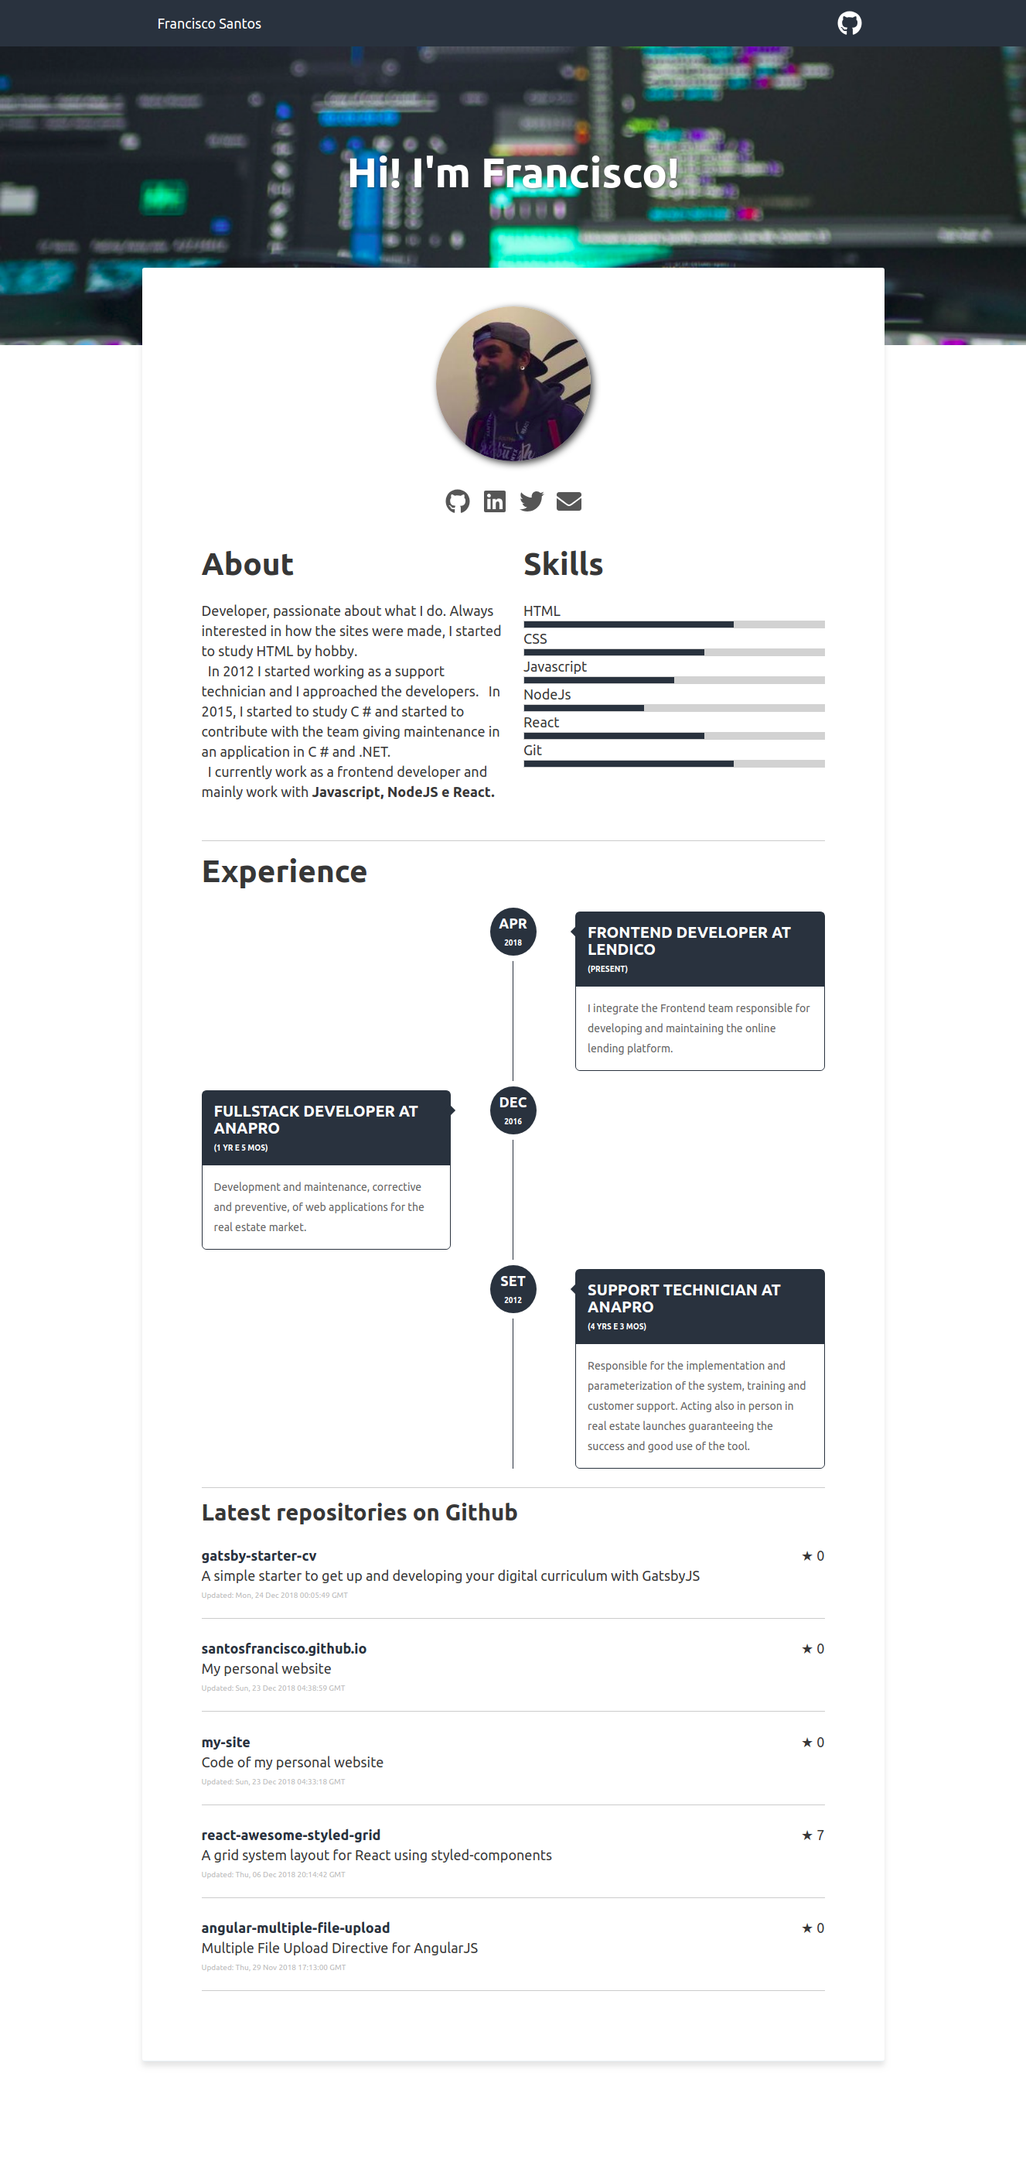
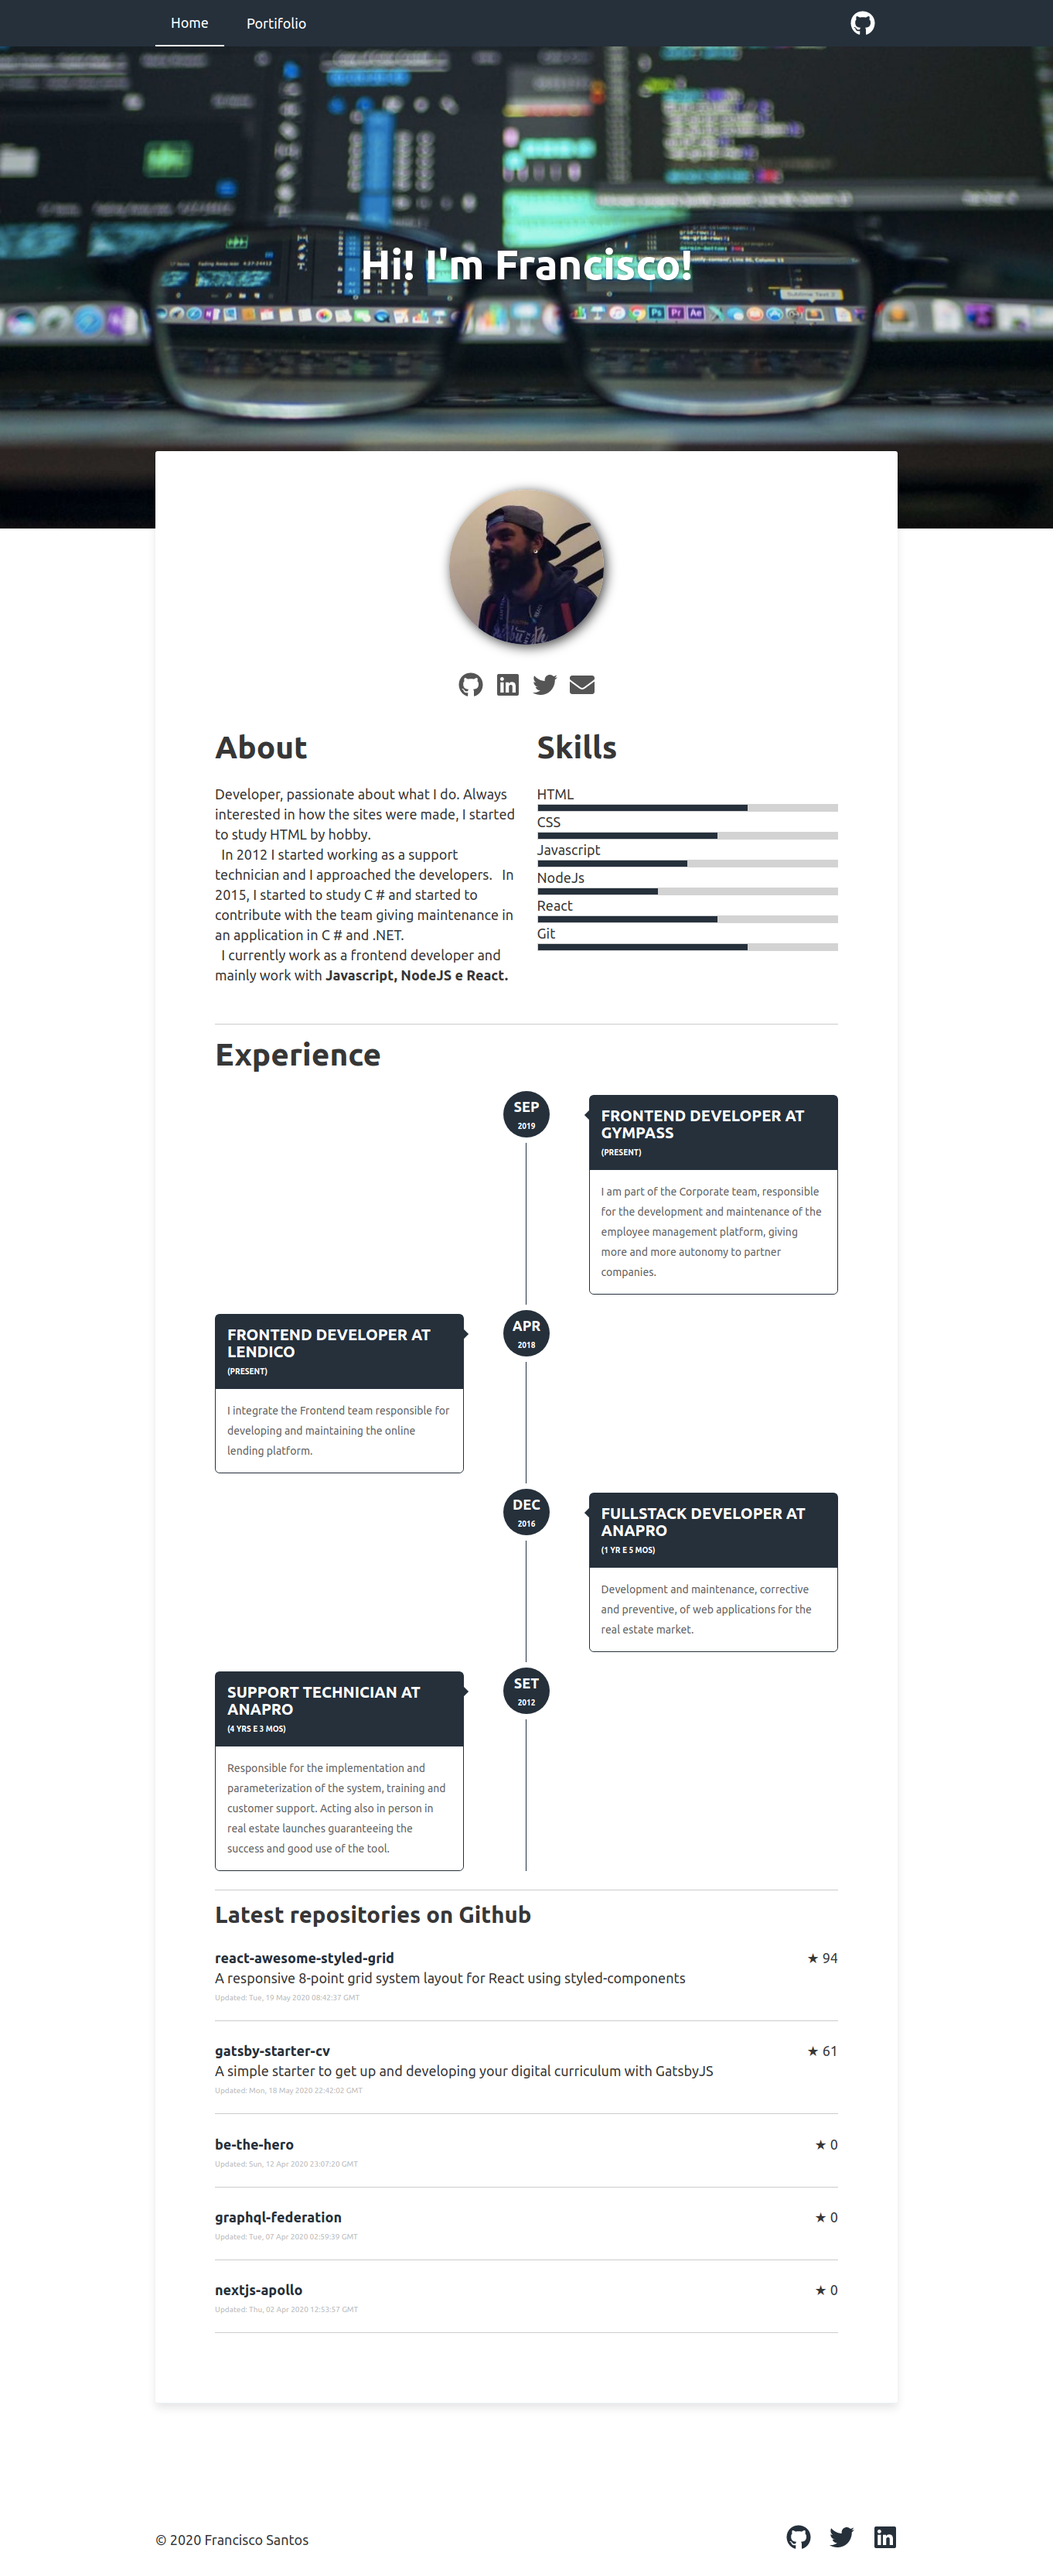
Footer and portifolio (#27)
* upgrade react-awesome-styled-grid

* make footer

* fix header

* create portifolio page

* update readme

diff --git a/src/pages/portifolio.js b/src/pages/portifolio.js
@@ -1,0 +1,78 @@
+import React from 'react'
+import styled, { css } from 'styled-components'
+import { Container, Row, Col, config } from 'react-awesome-styled-grid'
+import siteConfig from '../../data/siteConfig'
+
+import Layout from '../components/layout'
+import Hero from '../components/hero'
+import SEO from '../components/SEO'
+import Wrapper from '../components/wrapper'
+
+const Image = styled.img`
+  max-height: 220px;
+  max-width: 220px;
+  object-fit: cover;
+  object-position: center center;
+  border-radius: 10px;
+  box-shadow: 24px 47px 79px -21px rgba(0,0,0,0.51);
+`
+
+const JobCard = styled.a`
+  text-decoration: none;
+  color: inherit;
+
+  ${({ href }) => href && css`
+    &:hover ${Image}{
+      transition: transform .5s;
+      transform: translateY(-5px);
+    }
+  `}
+`
+
+const Portifolio = ({ className, location }) => {
+  const title = "Portifolio"
+  const { keywords, portifolio } = siteConfig
+  return (
+    <Layout location={location}>
+      <SEO
+        title={title}
+        keywords={keywords}
+      />
+
+      <Hero
+        heroImg="/images/pierre-chatel-innocenti-W5INoOK-5eI-unsplash.jpg"
+        title={title}
+      />
+
+      <Wrapper className={className}>
+        <Container className="page-content" fluid>
+          <Row>
+            {portifolio.map(job => (
+              <Col
+                key={job.description}
+                align="center"
+              >
+                <JobCard
+                  as={job.url ? "a" : "div"}
+                  href={job.url}
+                  target="_blank"
+                >
+                  <Image src={job.image} />
+                  <p>{job.description}</p>
+                </JobCard>
+              </Col>
+            ))}
+          </Row>
+        </Container>
+      </Wrapper>
+    </Layout>
+  )
+}
+
+export default styled(Portifolio)`
+  .page-content {
+    max-width: 100%;
+    margin-bottom: 40px;
+  }
+
+`

diff --git a/src/components/header/header.js b/src/components/header/header.js
@@ -1,6 +1,6 @@
 import React from 'react'
 import { Link } from 'gatsby'
-import styled from 'styled-components'
+import styled, { css } from 'styled-components'
 import { FaGithub } from "react-icons/fa"
 import siteConfig from '../../../data/siteConfig'
 
@@ -36,6 +36,7 @@ const HeaderLinkGroup = styled.div`
 
 const HeaderLink = styled(Link)`
   position: relative;
+  box-sizing: border-box;
   text-decoration: none;
   display: flex;
   align-items: center;
@@ -47,6 +48,9 @@ const HeaderLink = styled(Link)`
   padding-right: 20px;
   min-width: 42px;
   z-index: 10;
+  ${({ active }) => active && css`
+    border-bottom: 2px solid #fff;
+  `}
 `
 const GithubLink = styled(({ className }) => (
   <a 
@@ -71,25 +75,27 @@ const GithubLink = styled(({ className }) => (
   z-index: 10;
 `
 
-class Header extends React.Component {
-  render () {
-    const { headerLinks } = siteConfig
+const Header = ({ location }) => {
+  const { headerLinks } = siteConfig
 
-    return (
-      <HeaderWrapper>
-        <HeaderNav>
-          <HeaderLinkGroup>
-            {headerLinks.map((headerLink, i) => (
-              <HeaderLink to={headerLink.url} key={`header-link-${i}`}>
-                {headerLink.label}
-              </HeaderLink>
-            ))}
-          </HeaderLinkGroup>
-          <GithubLink />
-        </HeaderNav>
-      </HeaderWrapper>
-    )
-  }
+  return (
+    <HeaderWrapper>
+      <HeaderNav>
+        <HeaderLinkGroup>
+          {headerLinks.map((headerLink, i) => (
+            <HeaderLink
+              active={location.pathname === headerLink.url}
+              to={headerLink.url}
+              key={`header-link-${i}`}
+            >
+              {headerLink.label}
+            </HeaderLink>
+          ))}
+        </HeaderLinkGroup>
+        <GithubLink />
+      </HeaderNav>
+    </HeaderWrapper>
+  )
 }
 
 export default Header

diff --git a/data/siteConfig.js b/data/siteConfig.js
@@ -34,10 +34,22 @@ module.exports = {
     {
       name: 'Git',
       level: 70
-    }
+    },
+    /* more skills here */
   ],
   jobs: [
+    /* more portifolio items here */
     {
+      company: "Gympass",
+      begin: {
+        month: 'sep',
+        year: '2019'
+      },
+      duration: null,
+      occupation: "Frontend developer",
+      description: "I am part of the Corporate team, responsible for the development and maintenance of the employee management platform, giving more and more autonomy to partner companies."
+  
+    },  {
       company: "Lendico",
       begin: {
         month: 'apr',
@@ -67,7 +79,19 @@ module.exports = {
       description: "Responsible for the implementation and parameterization of the system, training and customer support. Acting also in person in real estate launches guaranteeing the success and good use of the tool."
   
     },
-    /* ... */
+  ],
+  portifolio: [
+    {
+      image: "/images/gatsby-starter-cv.png",
+      description: "Gatsby starter CV template",
+      url: "https://www.gatsbyjs.org/starters/santosfrancisco/gatsby-starter-cv/"
+    },
+    {
+      image: "/images/awesome-grid.png",
+      description: "Responsive grid for ReactJS",
+      url: "https://github.com/santosfrancisco/react-awesome-styled-grid"
+    },
+    /* more portifolio items here */
   ],
   social: {
     twitter: "https://twitter.com/_franciscodf",
@@ -85,8 +109,12 @@ module.exports = {
   icon: 'src/assets/gatsby-icon.png',
   headerLinks: [
     {
-      label: 'Francisco Santos',
+      label: 'Home',
       url: '/',
+    },
+    {
+      label: 'Portifolio',
+      url: '/portifolio',
     }
   ]
 }

diff --git a/src/components/footer/footer.js b/src/components/footer/footer.js
@@ -1,0 +1,53 @@
+import React from 'react'
+import styled from 'styled-components'
+import { FaGithub, FaTwitter, FaLinkedin } from "react-icons/fa"
+import { config } from 'react-awesome-styled-grid';
+import siteConfig from '../../../data/siteConfig'
+
+const Link = styled(({ className, icon: Icon, ...props }) => (
+  <a 
+    className={className}
+    target='_blank'
+    rel="noopener noreferrer"
+    {...props}
+  >
+    <Icon color="#25303B" size={32} />
+  </a>
+))`
+  & + & {
+    margin-left: 24px;
+  }
+`;
+
+const Footer = ({ className }) => {
+  const {
+    twitter,
+    linkedin,
+    github,
+  } = siteConfig.social
+  return (
+    <footer className={className}>
+      {`© ${new Date().getFullYear()} ${siteConfig.authorName}`}
+      <div>
+        {github && <Link href={github} icon={FaGithub} />}
+        {twitter && <Link href={twitter} icon={FaTwitter} />}
+        {linkedin && <Link href={linkedin} icon={FaLinkedin} />}
+      </div>
+    </footer>
+  )
+}
+
+export default styled(Footer)`
+  min-height: 93px; 
+  display: flex;
+  flex-direction: column-reverse;
+  justify-content: space-between;
+  align-items: center;
+  max-width: calc(960px + 48px);
+  margin: 0 auto;
+  padding: 0 24px;
+
+  ${props => config(props).media.sm`
+    flex-direction: row;
+  `}
+`;

diff --git a/src/components/hero/hero.js b/src/components/hero/hero.js
@@ -8,9 +8,6 @@ const HeroContainer = styled.div`
   display: table;
   width: 100%;
   overflow: hidden;
-  background-repeat: no-repeat;
-  background-position: center;
-  background-size: cover;
 `
 
 const TitleContainer = styled.div`
@@ -28,26 +25,19 @@ const HeroTitle = styled.h1`
   text-shadow: 1px 1px 4px rgba(34, 34, 34, 0.6);
 `
 
-class Hero extends React.Component {
-  render() {
-    const { title, className } = this.props
-
-    return (
-      <HeroContainer className={className}>
-        <TitleContainer>
-          <HeroTitle>{title}</HeroTitle>
-        </TitleContainer>
-      </HeroContainer>
-    )
-  }
-}
+const Hero = ({ className, title }) => (
+  <HeroContainer className={className}>
+    <TitleContainer>
+      <HeroTitle>{title}</HeroTitle>
+    </TitleContainer>
+  </HeroContainer>
+)
 
 export default styled(Hero)`
-  
   ${p => `background-image: url(${p.heroImg || withPrefix(siteConfig.siteCover)});`}
   height: 70vh;
   background-attachment: fixed;
-  background-position: center;
+  background-position: bottom center;
   background-repeat: no-repeat;
   background-size: cover;
 `

diff --git a/src/components/layout/layout.js b/src/components/layout/layout.js
@@ -1,20 +1,22 @@
 import React from 'react'
 import PropTypes from 'prop-types'
-import siteConfig from '../../../data/siteConfig'
 import { ResetCSS, GlobalStyle } from '../styles'
 import Header from '../header'
+import Footer from '../footer'
 
-const Layout = ({ children }) => (
+const Layout = ({ children, location }) => (
   <React.Fragment>
-    <Header headerLinks={siteConfig.headerLinks} />
     <ResetCSS />
     <GlobalStyle />
+    <Header location={location} />
     <div>{children}</div>
+    <Footer />
   </React.Fragment>
 )
 
 Layout.propTypes = {
   children: PropTypes.node.isRequired,
 }
+
 
 export default Layout

diff --git a/src/components/footer/index.js b/src/components/footer/index.js
@@ -1,0 +1,1 @@
+export { default } from './footer'

diff --git a/README.md b/README.md
@@ -16,7 +16,13 @@ Create your resume in a few minutes with this totally responsive starter using R
 
 ## 📷 Preview
 
-![Preview](./preview.png)
+### Mobile
+
+![Preview mobile](./preview-mobile.gif)
+
+### Desktop
+
+![Preview desktop](./preview-desktop.gif)
 
 ## 🚀 Quick start
 
@@ -132,6 +138,19 @@ module.exports = {
   
     },
     /* ... */
+  ],
+  portifolio: [
+    {
+      image: "/images/gatsby-starter-cv.png",
+      description: "Gatsby starter CV template",
+      url: "https://www.gatsbyjs.org/starters/santosfrancisco/gatsby-starter-cv/"
+    },
+    {
+      image: "/images/awesome-grid.png",
+      description: "Responsive grid for ReactJS",
+      url: "https://github.com/santosfrancisco/react-awesome-styled-grid"
+    },
+    /* more portifolio items here */
   ],
   social: {
     twitter: "https://twitter.com/_franciscodf",
